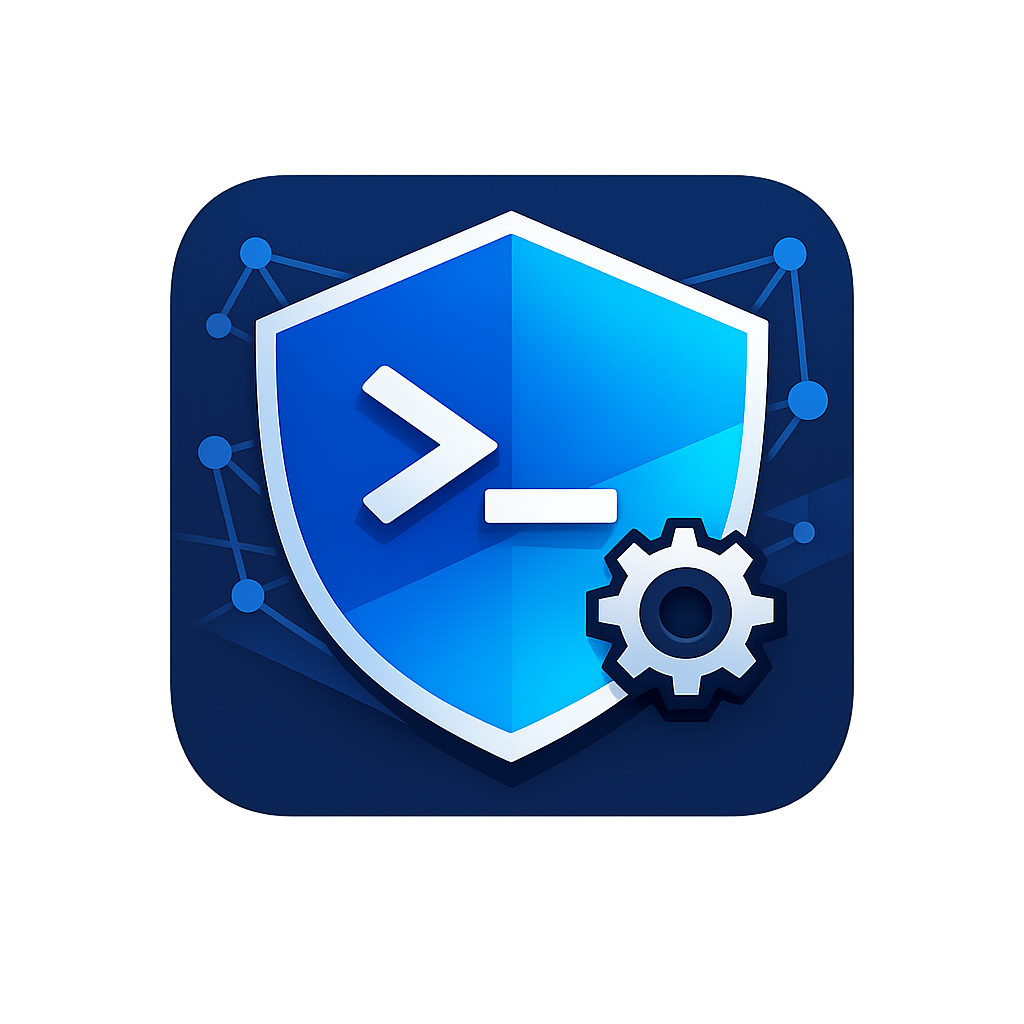
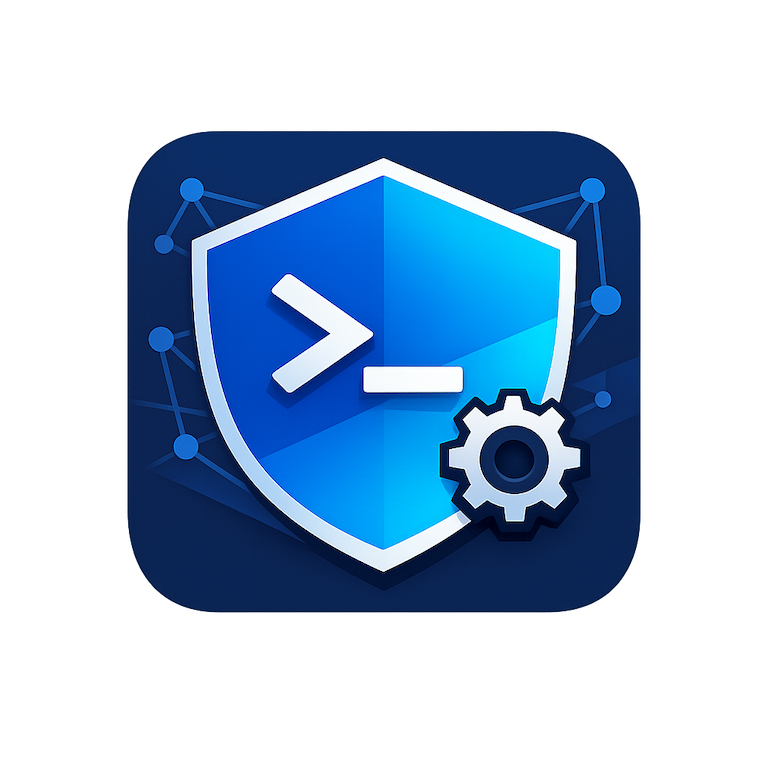
v1.3.3

diff --git a/CHANGELOG.md b/CHANGELOG.md
@@ -1,5 +1,11 @@
 # Changelog
 
+## 1.3.3
+
+### Fixed
+
+- Resize the icon
+
 ## 1.3.2
 
 ### Fixed
